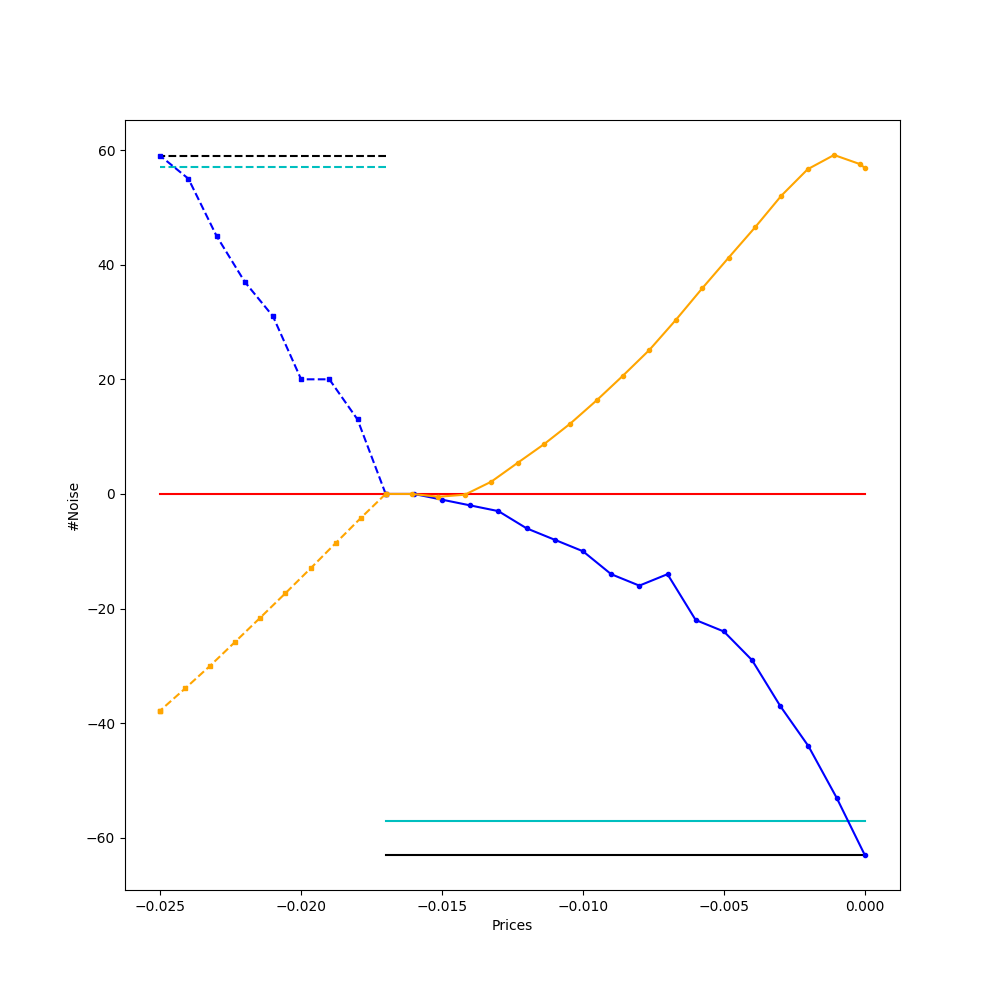
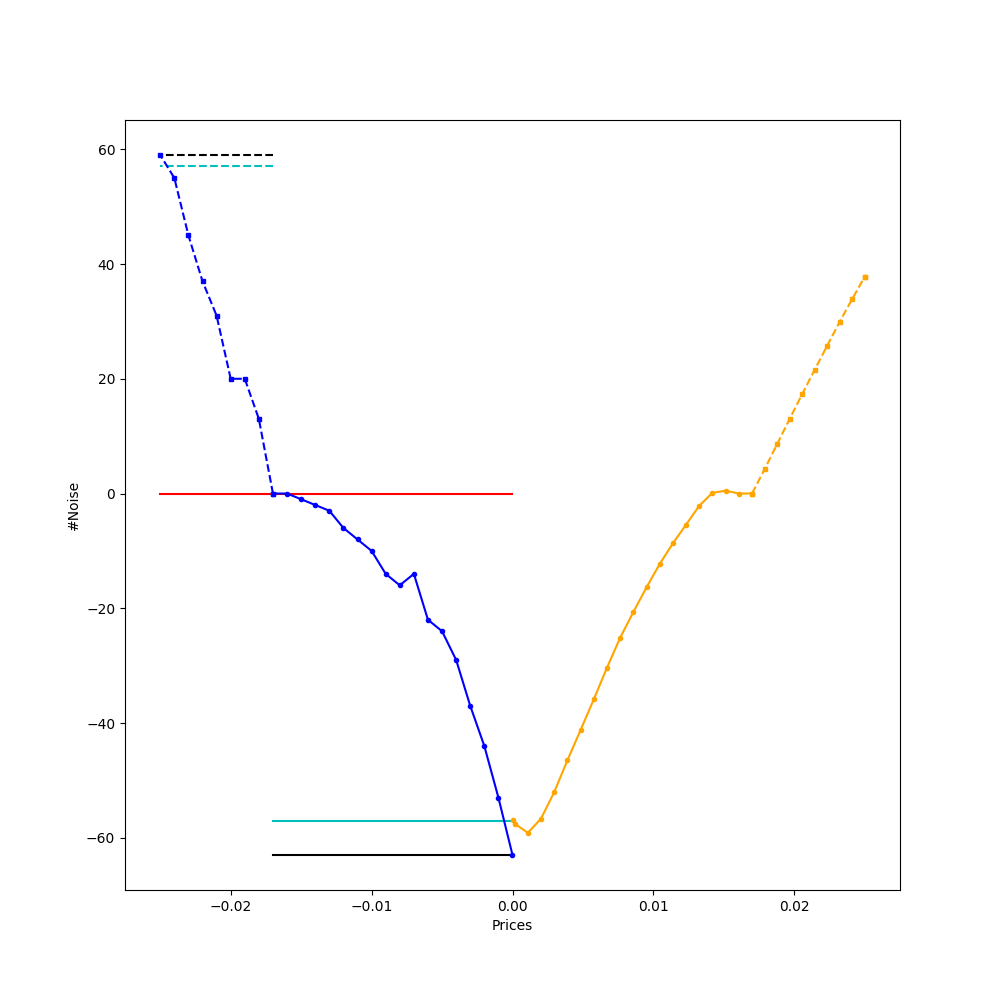
xx

diff --git a/core.py b/core.py
@@ -2111,7 +2111,7 @@ class MyModel(object):
         self._fmt_brief = '../simulation/training-dataset/mu-0-sigma-110.0-points-2000/{}-brief.csv'
         self._fmt_truth = '../simulation/training-dataset/mu-0-sigma-110.0-points-2000/{}-true-detail.csv'
         self._fmt_fake = '../simulation/training-dataset/mu-0-sigma-110.0-points-2000/{}-fake-detail.csv'
-        length = 10
+        length = 50
         assert length <= prices.shape[-1] - 1, "Length must be less than prices.shape-1"
         batch_size = self.batch_input_shape[-1]
         # states_list = None
@@ -2123,13 +2123,13 @@ class MyModel(object):
         counts = ((prices[1:]-prices[:-1] >= 0) == (results[1:] - results[:-1] >= 0)).sum()
         sign = None
         if counts / prices.shape[0] >= 0.7:
-            sign = +1
-        elif counts / prices.shape[0] <= 0.3:
             sign = -1
+        elif counts / prices.shape[0] <= 0.3:
+            sign = +1
 
         if sign is None:
             raise Exception("the neural network doesn't train well")
-        import ipdb; ipdb.set_trace()
+
         # determine correct direction of results
         states_list = None
 
@@ -2217,7 +2217,6 @@ class MyModel(object):
 
             interpolated_prices = sign * interpolated_prices
             interpolated_noises = sign * interpolated_noises
-
 
             fake_interpolated_prices = sign * fake_interpolated_prices
             fake_interpolated_noises = sign * fake_interpolated_noises
